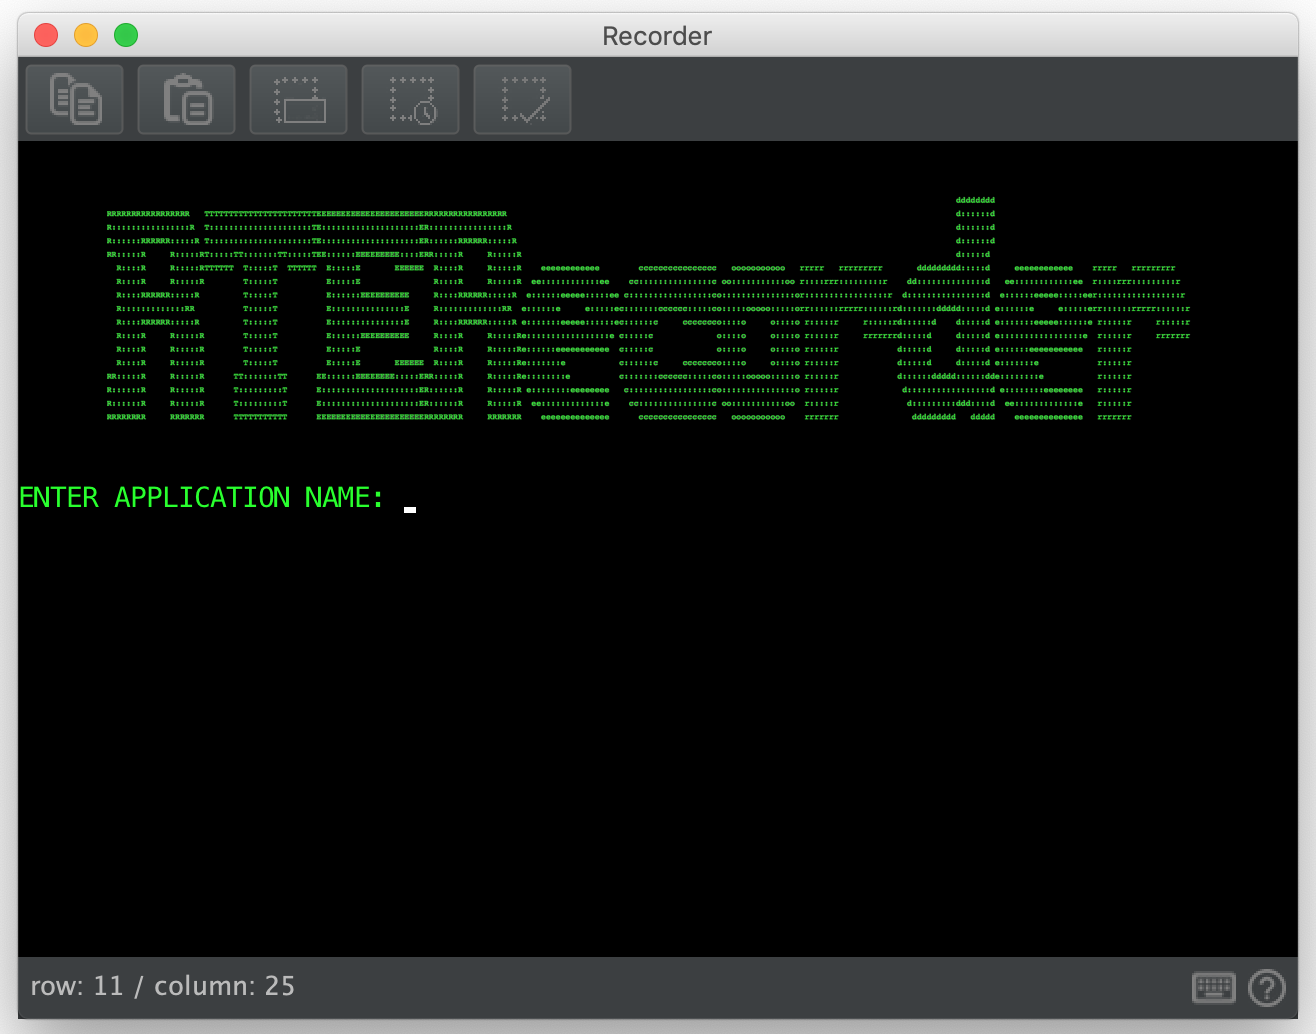
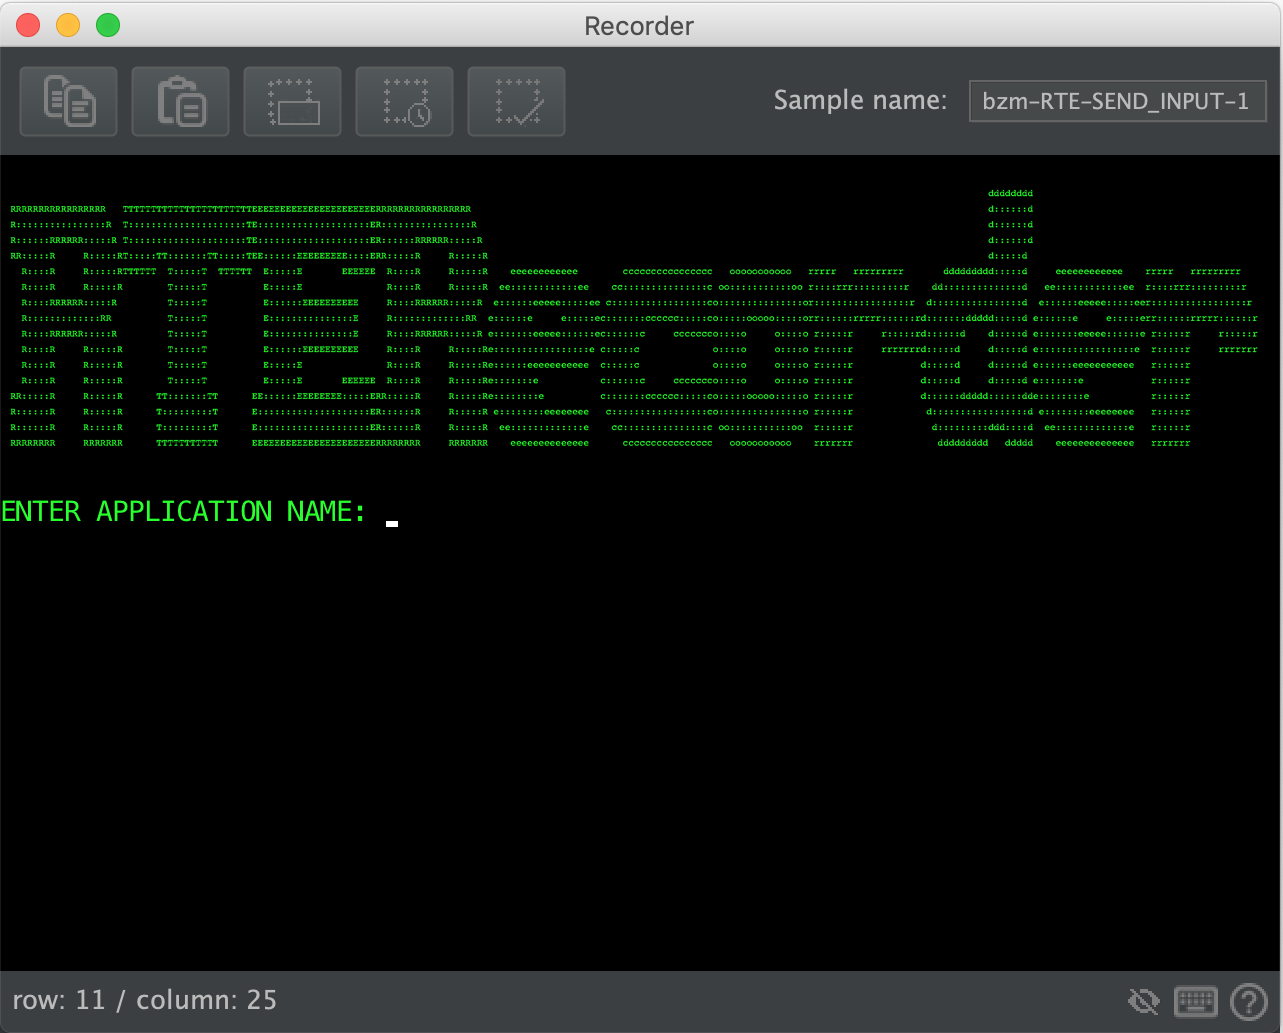
Documentation update
Documentation of RTE-Extractor has been added
Small changes in emulator documentation  in order to add new functionalities (hide password)

Changed region(s): [[0.0, 0.0, 1.0, 1.0]]

diff --git a/src/main/java/com/blazemeter/jmeter/rte/recorder/emulator/Xtn5250TerminalEmulator.java b/src/main/java/com/blazemeter/jmeter/rte/recorder/emulator/Xtn5250TerminalEmulator.java
@@ -157,7 +157,7 @@ public class Xtn5250TerminalEmulator extends JFrame implements TerminalEmulator 
       @Override
       public void mouseClicked(MouseEvent e) {
         shownCredentials = !shownCredentials;
-        LOG.info("Credentials are now {}", shownCredentials ? "hidden" : "visible");
+        LOG.info("Credentials are now {}", shownCredentials ? "visible" : "hidden");
         statusPanel.updateShowCredentials(shownCredentials);
         updateFieldsVisibility();
       }

diff --git a/docs/rte-extractor.md b/docs/rte-extractor.md
@@ -1,0 +1,48 @@
+# RTE-Extractor
+![alt_text](rte-extractor.png)
+**REMEMBER**: This Extractor will ease the development of future implementations. Therefore is not mandatory for scripts creation. However could be use it in particular cases. 
+
+The RTE Extractor is a component that must be embedded into a sampler.
+
+
+How to add a RTE-Extractor:
+![alt_text](extractor-component.gif)
+
+
+The aim of the Extractor is to have the ability to look into response headers for a Field Position (from a given position) and to set a JMeter Variable with the corresponding field position.
+
+Additionally you are able to skip fields using the tab offset.
+
+#####Tab offset cases:
+ - Case 1: Value equals to one, extractor will look for the closest field forward.
+ - Case 2: Value bigger than one, extractor will look for the closets field forward and skip field as many times as indicated. E.g: with an offset of two, it will search for the next field and then skip that one to jump to the other one. 
+ - Case 3: Value equals to minus one, extractor will look for the closest field backwards.
+ - Case 4: Value lower than minus one, same behaviour as **_case 2_** but backwards. E.g: offset equals to minus two, extractor will look for the nearest field backwards and then skip one.  
+
+Also there is an option to set the cursor position as a JMeter variable.
+
+In order to search for a field in the screen we have added Field Positions in Response Headers.
+
+
+ ![response_headers_fields_positions](response-headers.png)
+ 
+  Those positions are the real field positions. Place where we can insert values while recording. 
+
+
+Going back to the extractor, there is an obligatory field, which will contain the prefix name of your future variable:
+![variable_prefix](variable-prefix.png)
+
+In the previous image we can visualize that the variable prefix **_position_** will have the cursor position of the current sampler. Therefore the variable will split in two parts: (row, column). The row value will be saved in a variable called **_position_ROW_** and the column value will be **_position_COLUMN_**
+ > You can check how to use JMeter variables in your tests over [here](https://jmeter.apache.org/usermanual/functions.html#top).
+ 
+ 
+ ### Example of usage
+ Let's put the extractor to work. In order to do that, we are going to select the option _Extract next field filed from position_ and we wil give a position from where to look.
+ 
+In this example we will look for the next field from position (1,2). As we have seen in the response headers picture, there is a field in position (1,27) which will be our target. In order to accomplish that, we must specify **tab offset** to 1.
+
+Let's visualize all of this:
+
+![alterText](extractor-usage.gif)
+ > In this example we gave the extractor the beginning of a field (1,2), and as you could see, this one will search for the next field on the right, even when the given position is inside a field.
+ 

diff --git a/README.md b/README.md
@@ -35,14 +35,14 @@ To start recording, the user should specify the _Server_, _Port_, _Protocol_, _T
 
 Once everything is configured, the user proceeds to start the recording session, pressing START button. After the connection to the mainframe application is established (supposing configurations are right), the **[Terminal Emulator](/docs/terminal-emulator.md)** will show up. 
 
-![alt_text](docs/Emulator-Login.png)
+![alt_text](docs/emulator-login.png)
 
 >Click [here](/docs/terminal-emulator.md) to see all the information you must know about terminal emulator.
 
 Now we are able to interact with our client through RTE-Emulator. Every interaction will be automatically saved in samplers (_[check out everything about samplers ](#sampler-rte-sampler)_).
 Once we have ended the flow that we want to record, we can easily close the terminal emulator or press STOP button to stop our recording. 
 
-![alt_text](docs/Final-Testplan.png)
+![alt_text](docs/final-testplan.png)
 
 
 ##### Child View Results Tree integration:
@@ -95,6 +95,10 @@ The RTE Sampler fields are:
 All the "waiters" use a stable timeout value (in milliseconds) which specifies the time to wait for the emulator to remain at the desired state. The default value is 1000 milliseconds, but can be changed by adding the property `RTEConnectionConfig.stableTimeoutMillis=<time_in_millis>` in *jmeter.properties* file. The "Wait for silent" waiter is not affected by this setting since it has an explicit field for such purpose. 
 > Warning: both Stable Timeout and Silent Interval should be shorter than Timeout value, otherwise the sampler will always return a timeout error.
 
+#### RTE-Extractor
+![alt_text](docs/extractor.png)
+RTE-Extractor is a post-processor which the main purpose is to extract positions from response headers to be used later as a JMeter variable.
+>Check [here](/docs/rte-extractor.md) for more information.   
 ### Example
 
 Suppose the user wants to automate the following workflow with an AS400 server (TN5250 system):

diff --git a/docs/terminal-emulator.md b/docs/terminal-emulator.md
@@ -14,9 +14,12 @@
 - You can press assertion button ![alt_text](../src/main/resources/dark-theme/assertion.png) when you want to make sure that a part of the screen has appeared in the screen. This assertion has the same behaviour as JMeter Assertions. To assert for a part of the screen you just have to select a part of the screen and press the button. An assertion will be added to corresponding sampler.
     >[Here](#recorder-screen-assertion-usage) is an example of usage.
 
+- Clicking on ![alter_text](../src/main/resources/dark-theme/not-visible-credentials.png) / ![alter_text](../src/main/resources/dark-theme/visible-credentials.png) you will be able to show/hide credentials.
+
 - If you click on the ![alter_text](../src/main/resources/dark-theme/help.png) icon in the emulator, a pop up window will be displayed with general help information on the emulator: shortcuts, explanation about indicators on the screen, etc.
 
-    
+- As the label says, ![alter_text](sample-name.png) you can specify the name of the sample in current screen. 
+
 ### Input By Label Usage
 
 ![alt_text](input-by-label-usage.gif)
